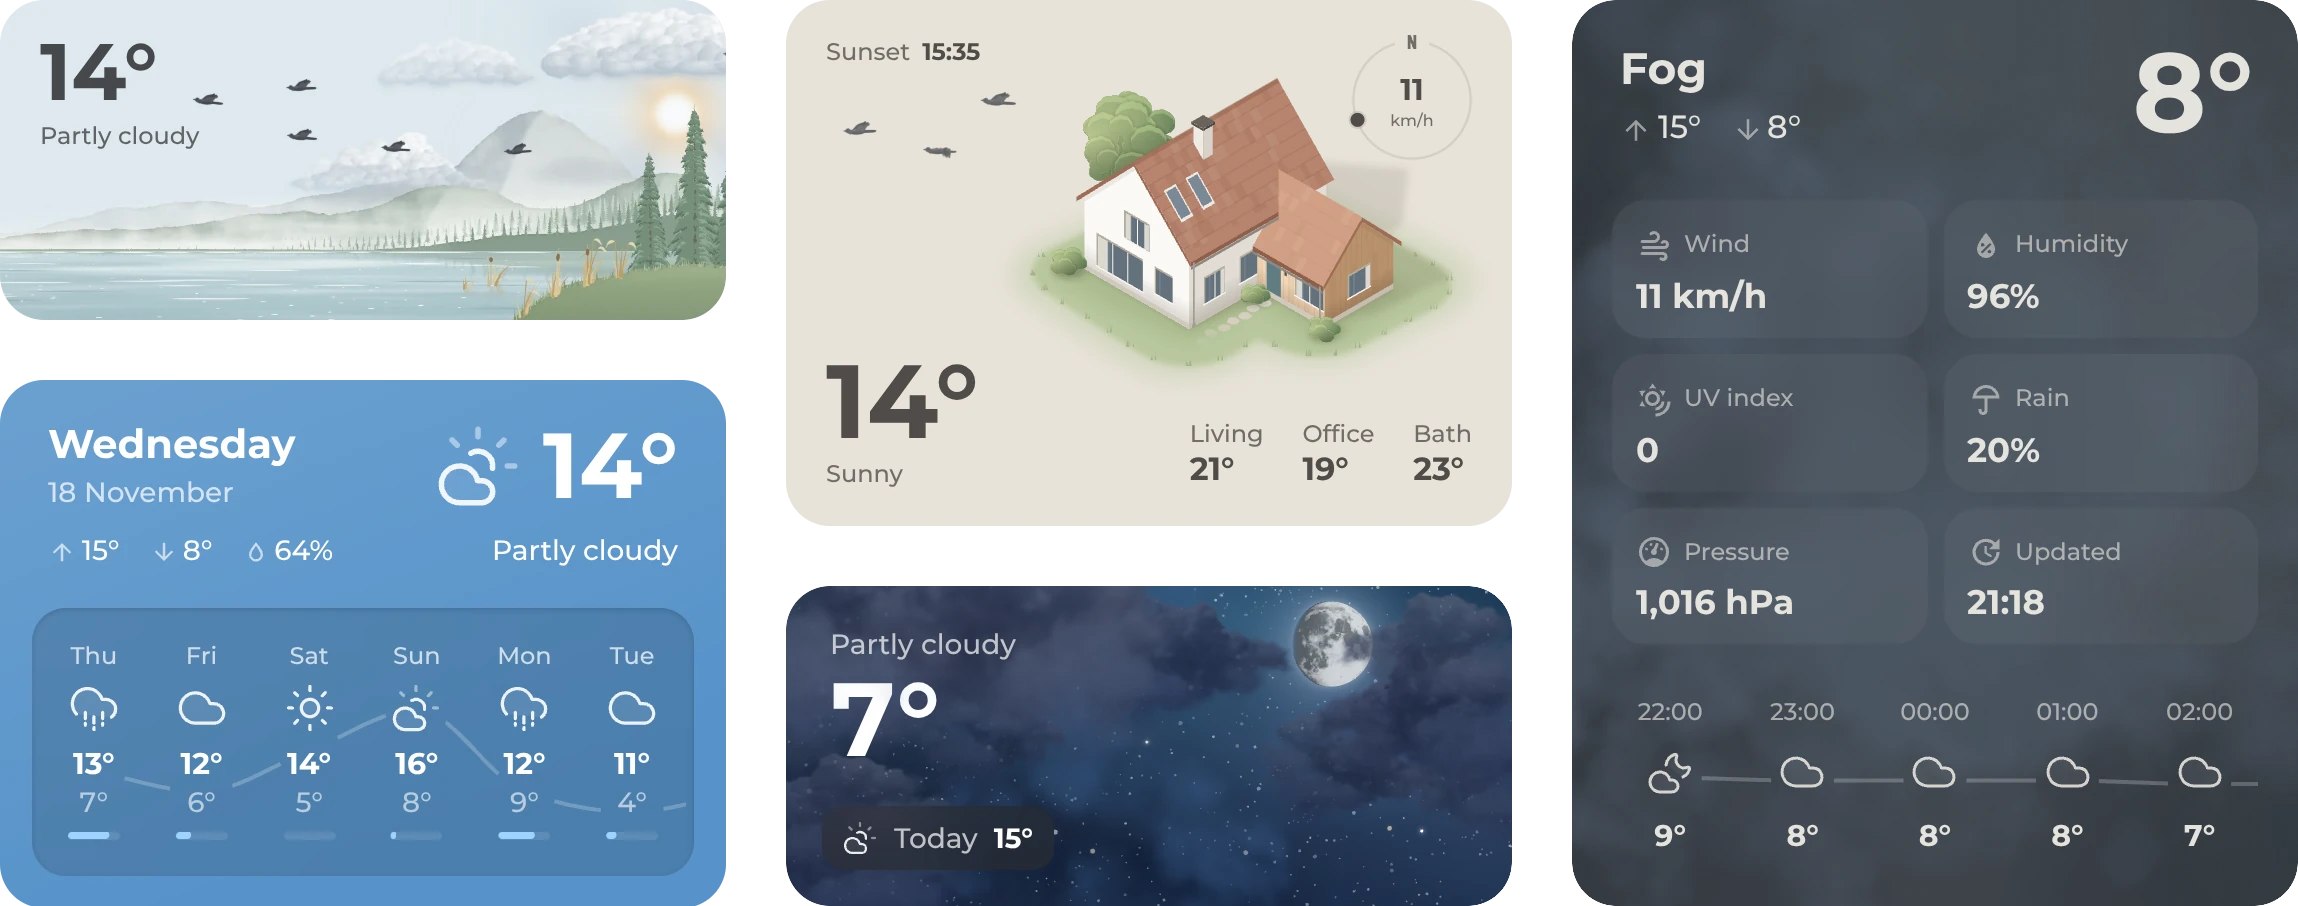
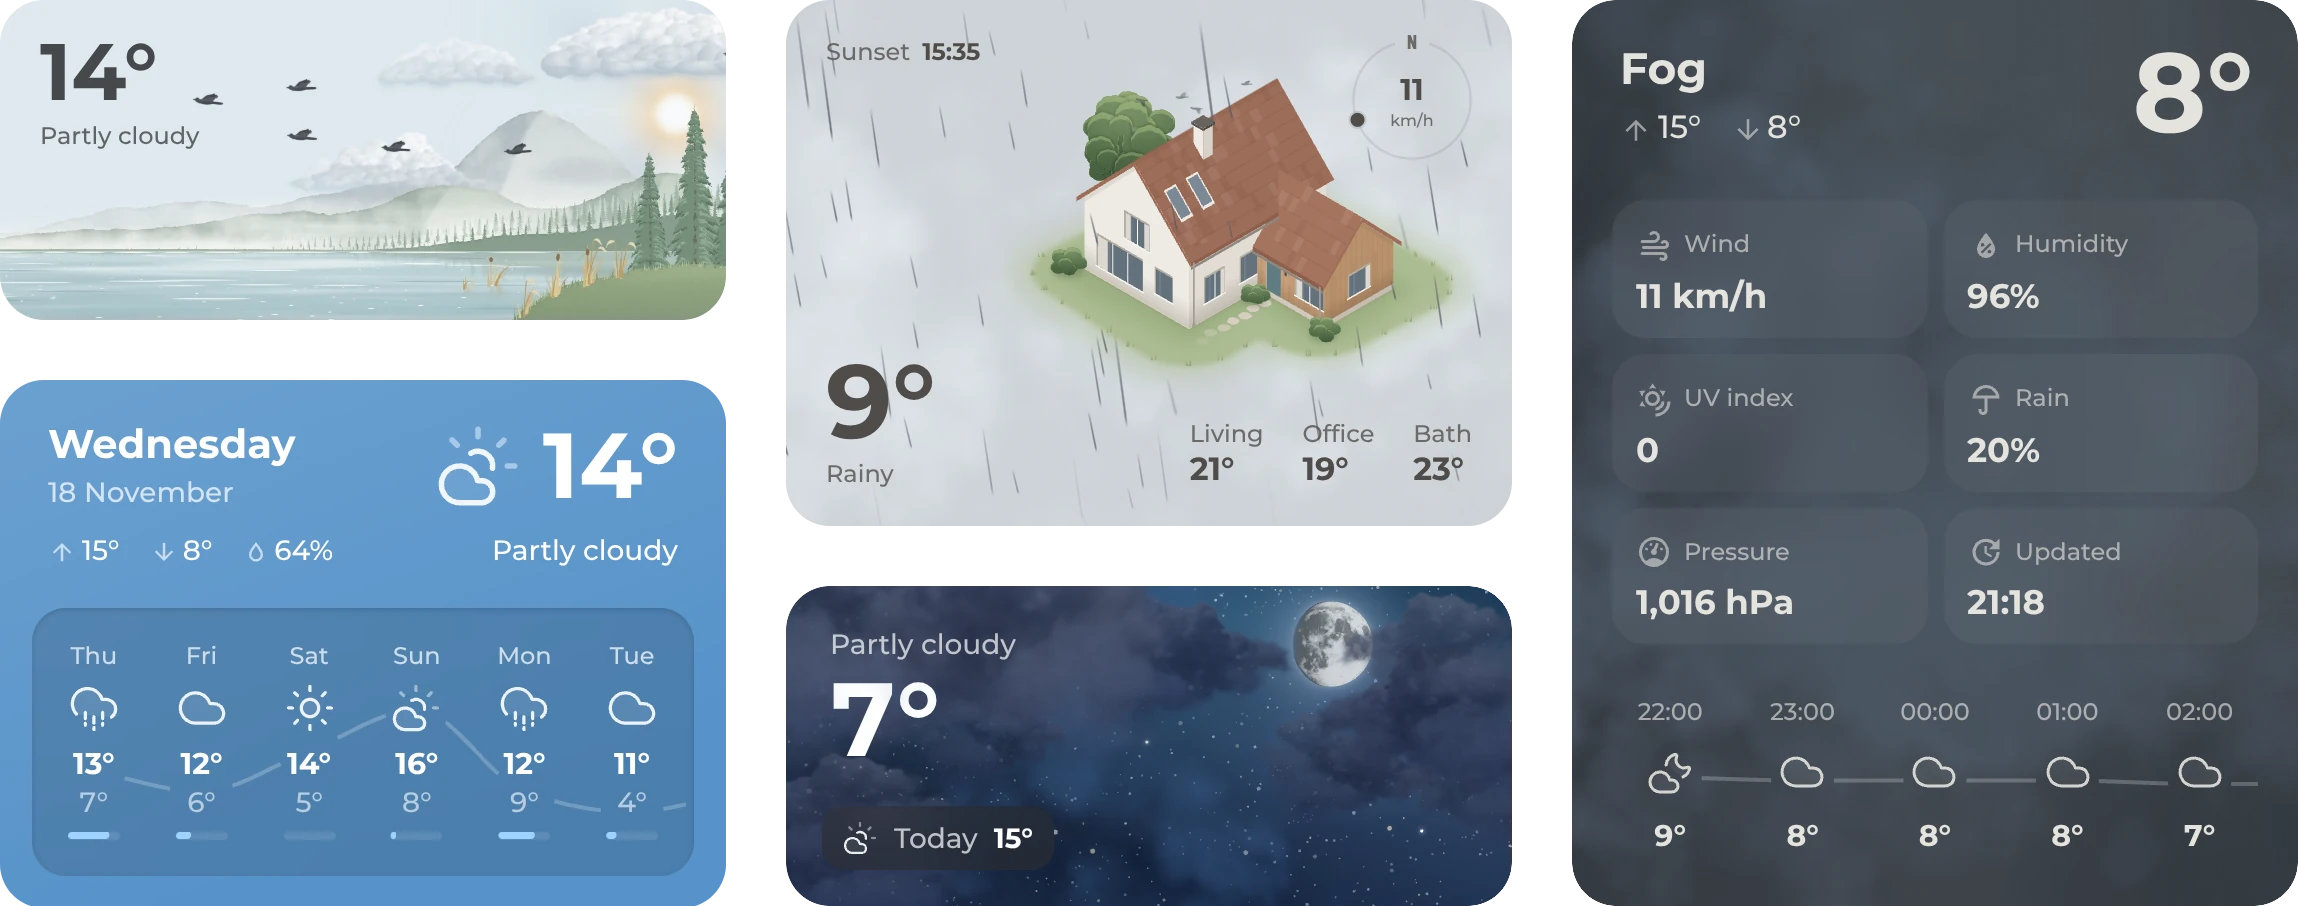
Home on a rainy day in the hero picture (#18)
The Home card shows a rainy day instead of a sunny one.

Changed region(s): [[0.3399, 0.0, 0.6488, 0.3709], [0.3399, 0.34, 0.6797, 0.5872], [0.4326, 0.34, 0.4634, 0.3709]]

diff --git a/README.md b/README.md
@@ -8,7 +8,7 @@
 
 <br>
 
-<img alt="Five Origami Weather cards: a paper landscape, a classic forecast, a house in the sun, a night sky with the moon and a detailed panel in fog" src="https://raw.githubusercontent.com/hazymorning/origami_weather/main/images/hero.webp">
+<img alt="Five Origami Weather cards: a paper landscape, a classic forecast, a house in the rain, a night sky with the moon and a detailed panel in fog" src="https://raw.githubusercontent.com/hazymorning/origami_weather/main/images/hero.webp">
 
 Origami Weather is a weather card for Home Assistant with a builder approach. It can be a visual, animated weather card, a classic info-rich one, or something completely different. It comes with several ready-made layouts, but every part can be changed or mixed and matched freely.
 
